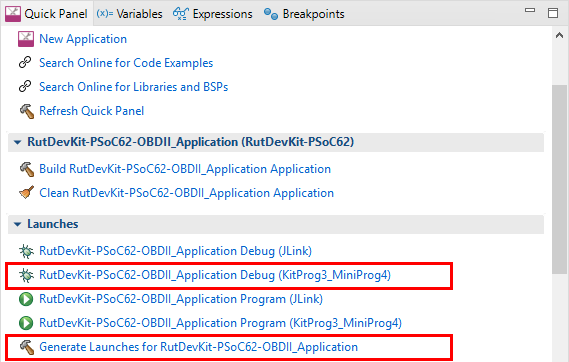
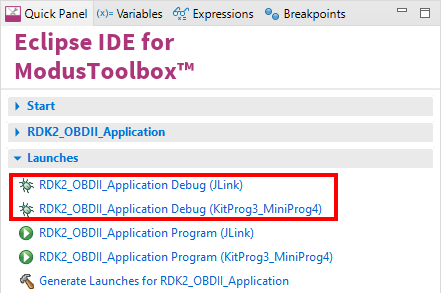
ReadMe.md update.

diff --git a/README.md b/README.md
@@ -1,4 +1,4 @@
-# RutDevKit-PSoC62-OBDII_Application
+# RDK2-OBDII_Application
 
 Rutronik Development Kit Programmable System-on-Chip CY8C6245AZI-S3D72 "OBD-II Application". 
 
@@ -6,11 +6,16 @@ This application is intended to be used as a reference firmware example for the 
 
  <img src="images/rutdevkit_model.png" style="zoom:20%;" />
 
+## Requirements
+
+- [ModusToolbox® software](https://www.infineon.com/cms/en/design-support/tools/sdk/modustoolbox-software/) v3.0
+
 ### Using the code example with a ModusToolbox IDE:
 
 1. Import the project: **File** > **Import...** > **General** > **Existing Projects into Workspace** > **Next**.
-2. Select the directory where **"RutDevKit-PSoC62-OBDII_Application"** resides and click  **Finish**.
-3. Select and build the project **Project ** > **Build Project**.
+2. Select the directory where **"RDK2-OBDII_Application"** resides and click  **Finish**.
+3. Update libraries using  a **"Library Manager"** tool.
+4. Select and build the project **Project ** > **Build Project**.
 
 ### Operation
 
@@ -22,7 +27,7 @@ The LED1 and LED2 indicate whether the device has the connection with the CAN ne
 
 ### Debugging
 
-If you successfully have imported the example, the debug configurations are already prepared to use with a the KitProg3, MiniProg4, or J-link. Open the ModusToolbox perspective and find the Quick Panel. Click on the desired debug launch configuration and wait for the programming completes and debug process starts.
+If you successfully have imported the example, the debug configurations are already prepared to use with a the KitProg3, MiniProg4, or J-link. Open the ModusToolbox perspective and find the Quick Panel. Click on the desired debug launch configuration and wait for the programming to complete and debugging process to start.
 
 <img src="images/debug_launch.png" style="zoom:100%;" />
 
